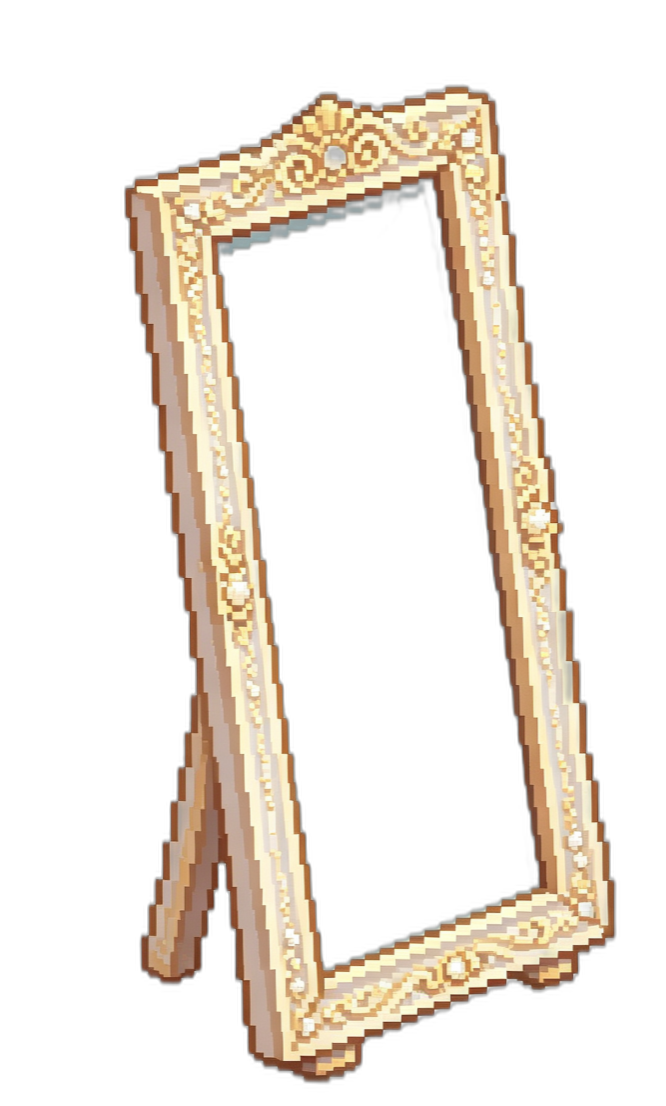
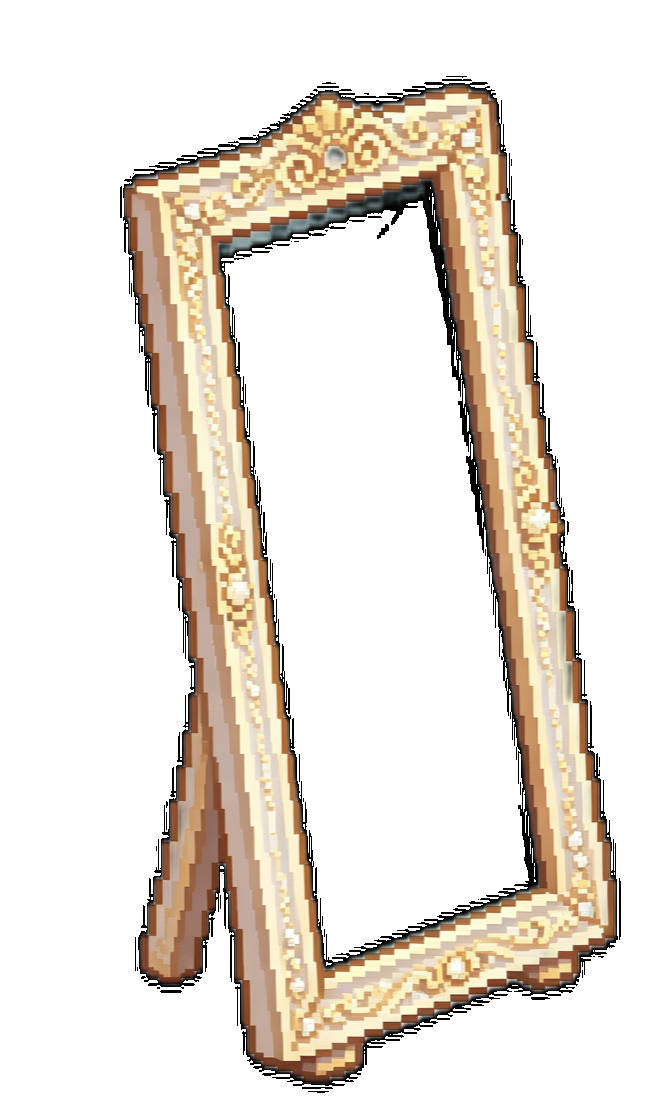
fix(tab1,tab2): 资源层+渲染层双层修复家具抠图半透透背景
【资源层 - 图片本身】
- 用 PIL 批量扫描 24 张家具 PNG，发现 3 张后端上传的大尺寸家具图
  有严重抠图半透残留（A 在 1~254 之间的像素占 28~48%）：
  - bed-big.png            489,420 px 半透 (44.66%)
  - 0fec7c5...41e1.png     212,470 px 半透 (28.84%)
  - d9171773...95d1.png    694,042 px 半透 (48.11%)
- 执行 alpha 二值化：A=0 保持镂空，A>0 全部强制 255 实心
- 二次验证 semi 全部清零（semi=0 ✅）
- 原图已 .presemibak 备份，遵循修改图片前先留锚点的最佳实践

【渲染层 - 浏览器端兜底 SVG filter】
- 在 index.html 新增 #alpha-hard-edge SVG filter：
  feFuncA discrete threshold (A<128→0, A>=128→255)
- 作用于所有 tab1 家具 .ri-sprite img 和 tab2 本心对语木牌 .tab2-entry-img
- 与父层 brightness/saturate/drop-shadow filter 独立（不同 DOM 层级），
  不冲突；新增 -webkit-filter 前缀兼容 Safari
- 此兜底让任何后台新上传、未经过资源层修复的家具图都不会再出现
  半透像素，从机制上杜绝『家具透背景』回归

【缓存】
- tab1-home.css v55→v56, tab2-forest.css v39→v40 版本号递增

diff --git a/yuji-app/index.html b/yuji-app/index.html
@@ -15,8 +15,8 @@
   <link rel="preconnect" href="https://fonts.gstatic.com" crossorigin />
   <link href="https://fonts.googleapis.com/css2?family=Press+Start+2P&family=ZCOOL+KuaiLe&display=swap" rel="stylesheet" />
   <link rel="stylesheet" href="css/main.css?v=41" />
-  <link rel="stylesheet" href="css/tab1-home.css?v=55" />
-  <link rel="stylesheet" href="css/tab2-forest.css?v=39" />
+  <link rel="stylesheet" href="css/tab1-home.css?v=56" />
+  <link rel="stylesheet" href="css/tab2-forest.css?v=40" />
   <link rel="stylesheet" href="css/tab3-garden.css?v=41" />
   <link rel="stylesheet" href="css/tab4-stars.css?v=42" />
   <link rel="stylesheet" href="css/popups.css?v=39" />
@@ -248,6 +248,25 @@
       <!-- 提示 toast -->
       <div class="toast" id="toast"></div>
   </div>
+
+  <!-- ============================================================
+       家具/SVG 精灵 alpha 硬边二值化 filter
+       解决抠图留下半透明像素导致"家具透背景"的问题：
+         A=0         → 0   (完全透明，保留形状外镂空)
+         A ∈ [1,255] → 255 (完全实心，不允许任何半透像素漏网)
+       所有 tab 的家具 / 精灵 / 入口木牌 img 统一引用此 filter
+       ============================================================ -->
+  <svg width="0" height="0" style="position:absolute;left:-9999px;pointer-events:none" aria-hidden="true">
+    <defs>
+      <filter id="alpha-hard-edge" x="0%" y="0%" width="100%" height="100%" color-interpolation-filters="sRGB">
+        <!-- feFuncA: threshold 分段函数。tableValues 两个值 → 把 [0,0.5)→0, [0.5,1]→1
+             等价于 A<128→0, A>=128→255。家具像素只要不是纯透明就强制实心 -->
+        <feComponentTransfer>
+          <feFuncA type="discrete" tableValues="0 1"/>
+        </feComponentTransfer>
+      </filter>
+    </defs>
+  </svg>
 
   <!-- Supabase -->
   <script src="https://cdn.jsdelivr.net/npm/@supabase/supabase-js@2.39.0/dist/umd/supabase.min.js"></script>

diff --git a/yuji-app/css/tab2-forest.css b/yuji-app/css/tab2-forest.css
@@ -110,6 +110,13 @@
   height: auto;
   image-rendering: pixelated;
   -webkit-user-drag: none;
+  /* ===== alpha 硬边二值化：与 Tab1 家具共用 SVG filter，杜绝抠图半透边缘 ===== */
+  opacity: 1 !important;
+  mix-blend-mode: normal !important;
+  transform: translateZ(0);
+  -webkit-transform: translateZ(0);
+  filter: drop-shadow(0 2px 2px rgba(0,0,0,0.08)) url(#alpha-hard-edge) !important;
+  -webkit-filter: drop-shadow(0 2px 2px rgba(0,0,0,0.08)) url(#alpha-hard-edge) !important;
 }
 .tab2-entry:hover {
   filter: drop-shadow(0 10px 18px rgba(215, 255, 220, 0.45));

diff --git a/yuji-app/css/tab1-home.css b/yuji-app/css/tab1-home.css
@@ -137,6 +137,11 @@
   backface-visibility: hidden;
   -webkit-backface-visibility: hidden;
   background-blend-mode: normal !important;
+  /* ===== alpha 硬边二值化：彻底干掉抠图留下的半透明边缘 =====
+     A<128→完全透明，A>=128→完全实心。
+     与父层 brightness/saturate filter 独立（父级后 img 级），不冲突 */
+  filter: url(#alpha-hard-edge) !important;
+  -webkit-filter: url(#alpha-hard-edge) !important;
 }
 
 .room-item .ri-shadow {
